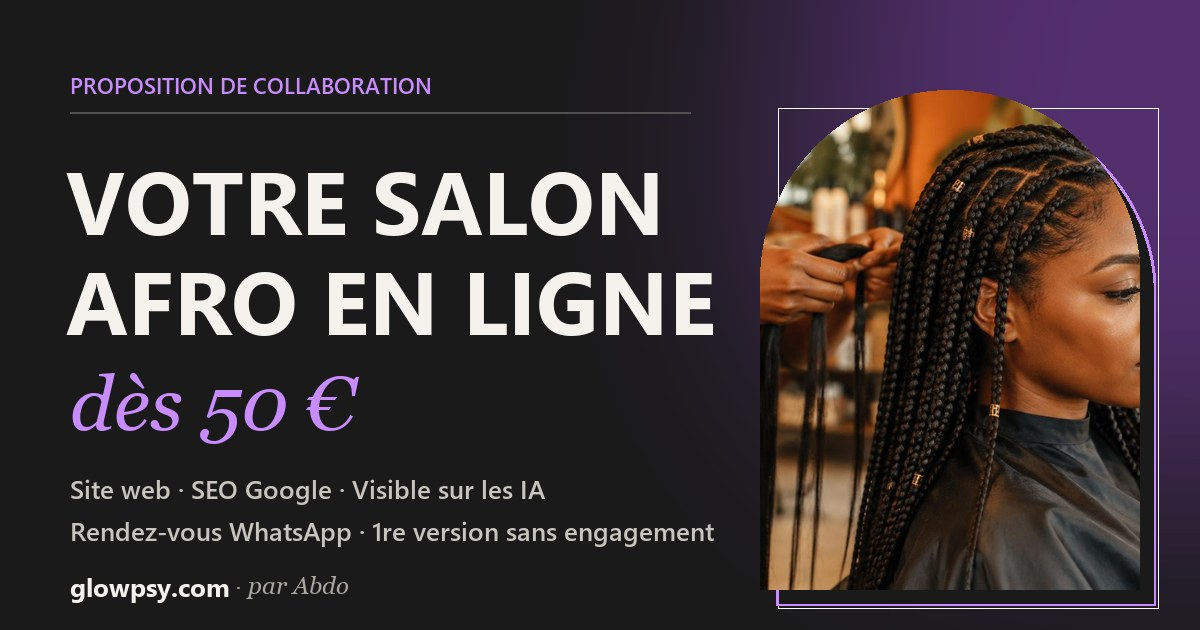
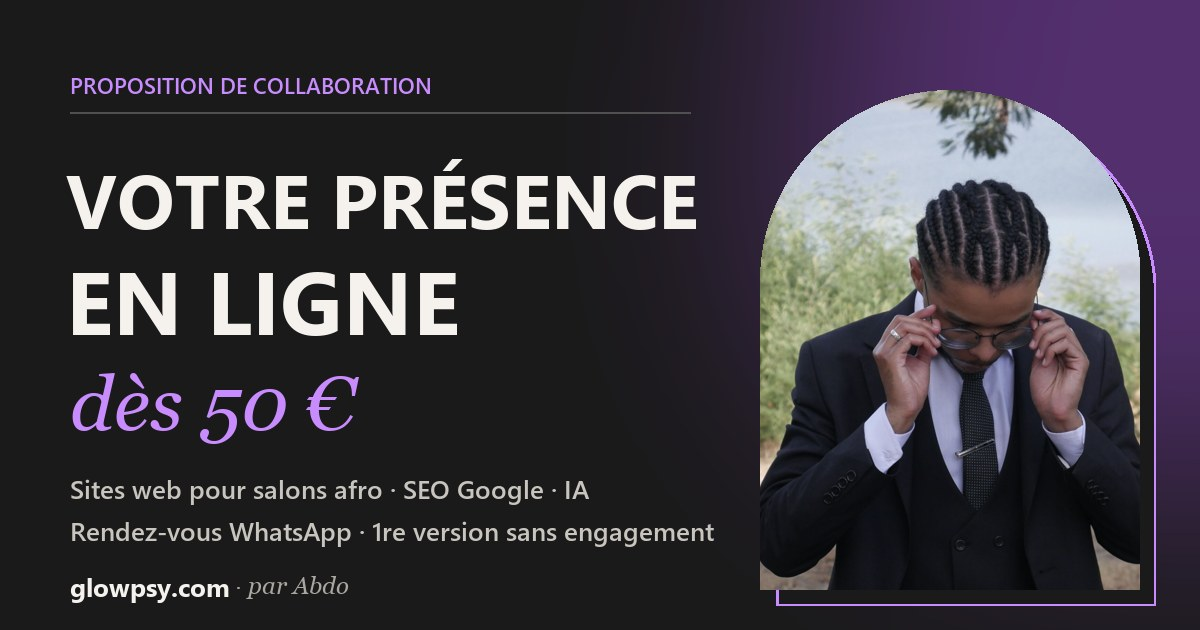
Hero : « Votre présence en ligne », lien tarifs et navbar
- Titre principal : « VOTRE PRÉSENCE » au lieu de « VOTRE SALON »
- Supprime « Salon afro à {ville} » en haut du hero
- Ajoute un lien (?) après « Proposition de collaboration » vers les formules
- FaqLink : peut aussi pointer vers une section, avec libellé accessible
- Navbar : « étudiant ingénieur » sous le nom
- Image d'aperçu (og-image) mise à jour

Changed region(s): [[0.0617, 0.1206, 0.9558, 0.9349], [0.0617, 0.2413, 0.5858, 0.3921], [0.0925, 0.754, 0.4933, 0.8143]]

diff --git a/src/components/FaqLink.tsx b/src/components/FaqLink.tsx
@@ -1,15 +1,31 @@
 import { ReactNode } from "react";
-import { goToFaq } from "@/components/SmoothScroll";
+import { goToFaq, scrollToSection } from "@/components/SmoothScroll";
 
-/** Small "(?)" link that jumps straight to a FAQ question, opens it and highlights it. */
-export default function FaqLink({ id, children, className = "" }: { id: string; children?: ReactNode; className?: string }) {
+/**
+ * Small "(?)" link that jumps straight to a FAQ question (opens + highlights it),
+ * or, with `section`, to a page section such as the pricing.
+ */
+export default function FaqLink({
+  id,
+  section,
+  children,
+  className = "",
+}: {
+  id?: string;
+  section?: string;
+  children?: ReactNode;
+  className?: string;
+}) {
   return (
     <a
-      href={`#faq-${id}`}
+      href={section ? `#${section}` : `#faq-${id}`}
       onClick={(e) => {
         e.preventDefault();
-        goToFaq(id);
+        if (section) scrollToSection(section);
+        else if (id) goToFaq(id);
       }}
+      aria-label={children ? undefined : section ? "Voir les formules et les tarifs" : "Voir la réponse"}
+      title={children ? undefined : section ? "Voir les tarifs" : "Voir la réponse"}
       className={`group inline-flex items-center gap-2 font-['Rubik'] text-foreground/70 hover:text-orange transition-colors ${className}`}
     >
       <span className="flex h-5 w-5 md:h-6 md:w-6 shrink-0 items-center justify-center rounded-full border border-current text-[10px] md:text-xs font-medium transition-transform group-hover:rotate-12">

diff --git a/src/components/sections/PitchHero.tsx b/src/components/sections/PitchHero.tsx
@@ -16,24 +16,16 @@ export default function PitchHero() {
   const lieu = useLieu();
   return (
     <div id="top" className="w-full max-w-7xl mx-auto px-8 md:px-12 pt-28 lg:pt-32 pb-16">
-      {/* Row 1: Eyebrow | Audience */}
-      <div className="flex flex-row justify-between items-center gap-4 md:gap-8 mb-6 md:mb-8">
+      {/* Row 1: Eyebrow + link to the pricing */}
+      <div className="flex flex-row items-center gap-4 md:gap-8 mb-6 md:mb-8">
         <motion.div
           initial={{ opacity: 0, x: -20 }}
           animate={{ opacity: 1, x: 0 }}
           transition={{ duration: 0.6, delay: 0.1 }}
-          className="flex flex-col text-xs md:text-base text-orange text-left font-['Rubik']"
+          className="flex items-center gap-2.5 text-xs md:text-base text-orange font-['Rubik']"
         >
-          <div>{pitchInfo.eyebrow}</div>
-        </motion.div>
-
-        <motion.div
-          initial={{ opacity: 0, x: 20 }}
-          animate={{ opacity: 1, x: 0 }}
-          transition={{ duration: 0.6, delay: 0.2 }}
-          className="flex flex-col text-xs md:text-base text-orange text-right font-['Rubik']"
-        >
-          <div>{withLieu(pitchInfo.audience, lieu)}</div>
+          <span>{pitchInfo.eyebrow}</span>
+          <FaqLink section="formules" className="text-orange" />
         </motion.div>
       </div>
 

diff --git a/src/seo/meta.ts b/src/seo/meta.ts
@@ -127,7 +127,7 @@ export function renderHeadTags(seo: Seo): string {
     `<meta property="og:image" content="${seo.image}" />`,
     `<meta property="og:image:width" content="1200" />`,
     `<meta property="og:image:height" content="630" />`,
-    `<meta property="og:image:alt" content="Votre salon afro en ligne, site web dès 50 €" />`,
+    `<meta property="og:image:alt" content="Votre présence en ligne : site web pour salon afro dès 50 €" />`,
     `<meta name="twitter:card" content="summary_large_image" />`,
     `<meta name="twitter:title" content="${esc(seo.title)}" />`,
     `<meta name="twitter:description" content="${esc(seo.description)}" />`,

diff --git a/src/data/pitch-data.ts b/src/data/pitch-data.ts
@@ -18,7 +18,7 @@ export const contact = {
 
 export const nav = {
   brand: "Abdo",
-  brandTag: "sites pour salons",
+  brandTag: "étudiant ingénieur",
   links: [
     { id: "echange", label: "L'offre" },
     { id: "constat", label: "Le constat" },
@@ -33,9 +33,8 @@ export const nav = {
 
 export const pitchInfo = {
   eyebrow: "Proposition de collaboration",
-  audience: "Salon afro à {lieu}",
   location: "{lieu}, {region}",
-  headline1: "VOTRE SALON",
+  headline1: "VOTRE PRÉSENCE",
   headline2: "EN LIGNE",
   headline3: "À PARTIR DE 50 €",
   whyNotZero: "Pourquoi pas 0 ?",
